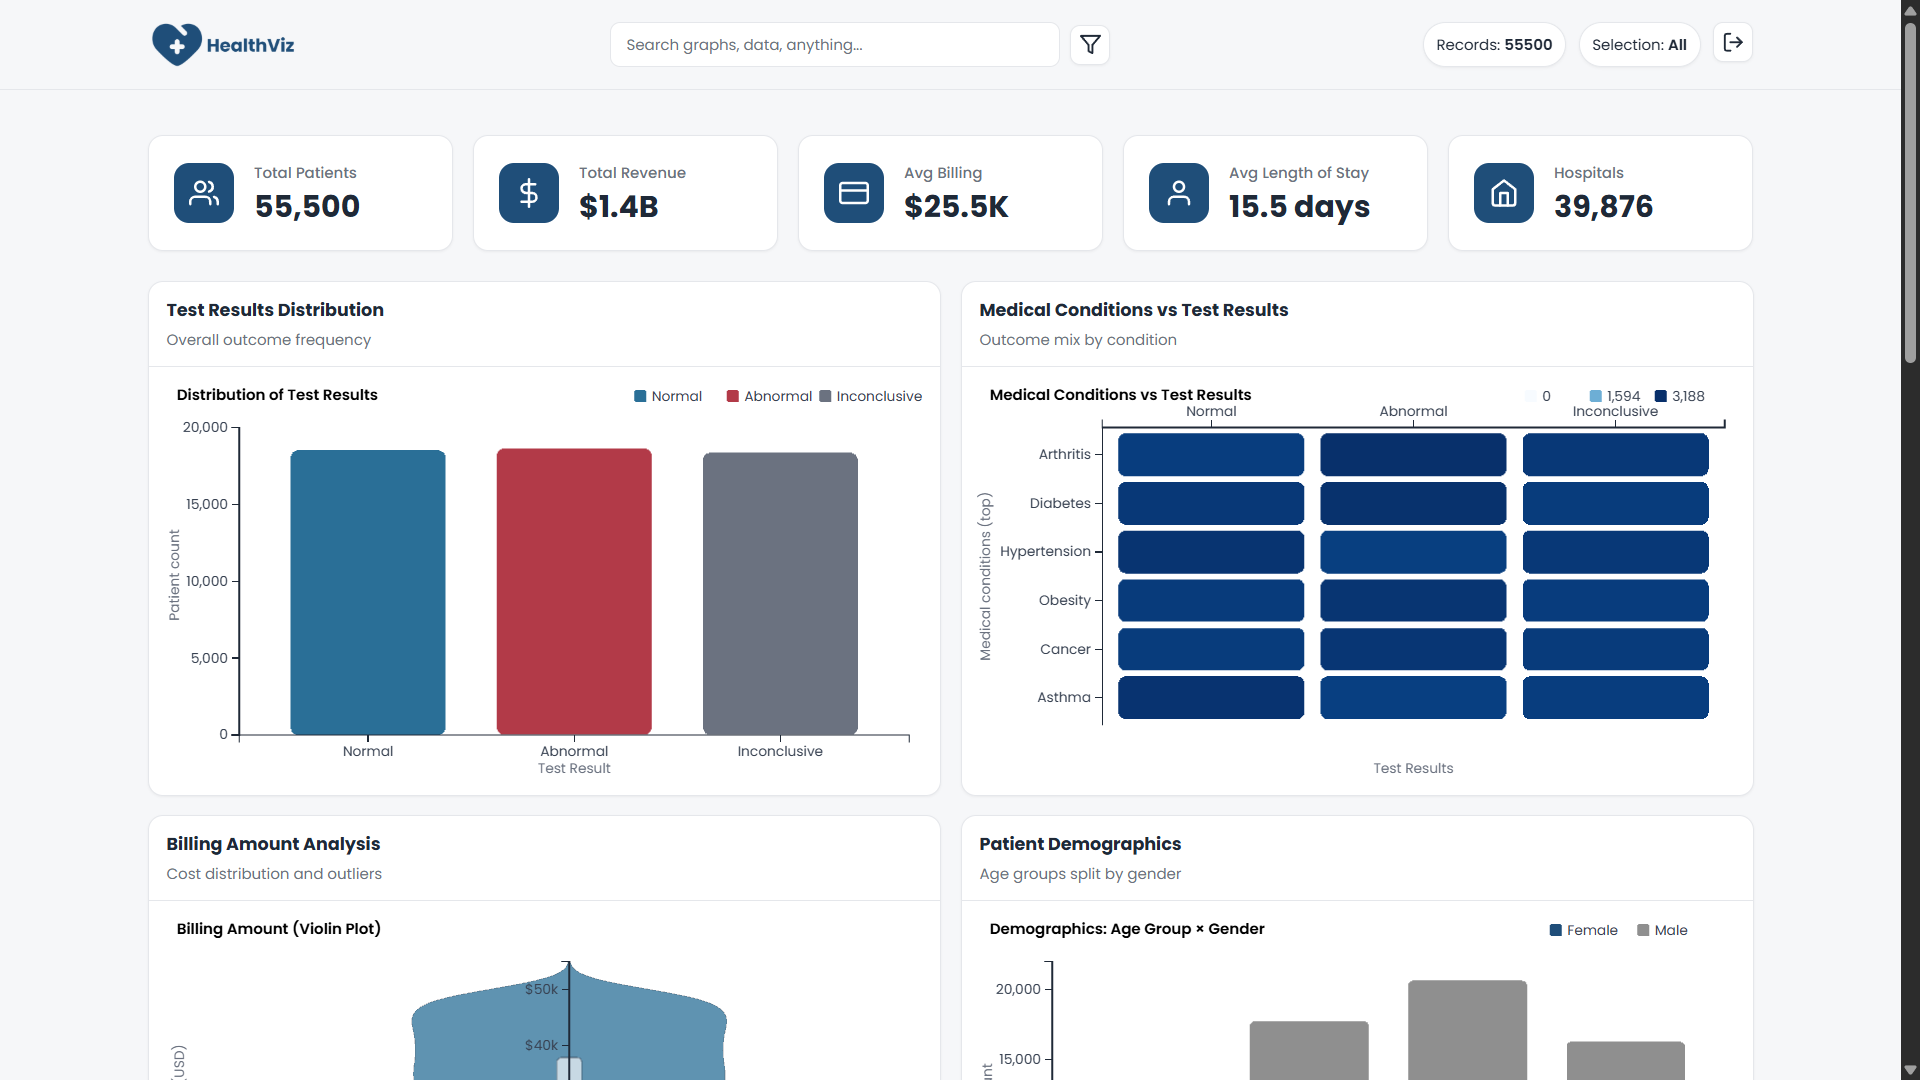
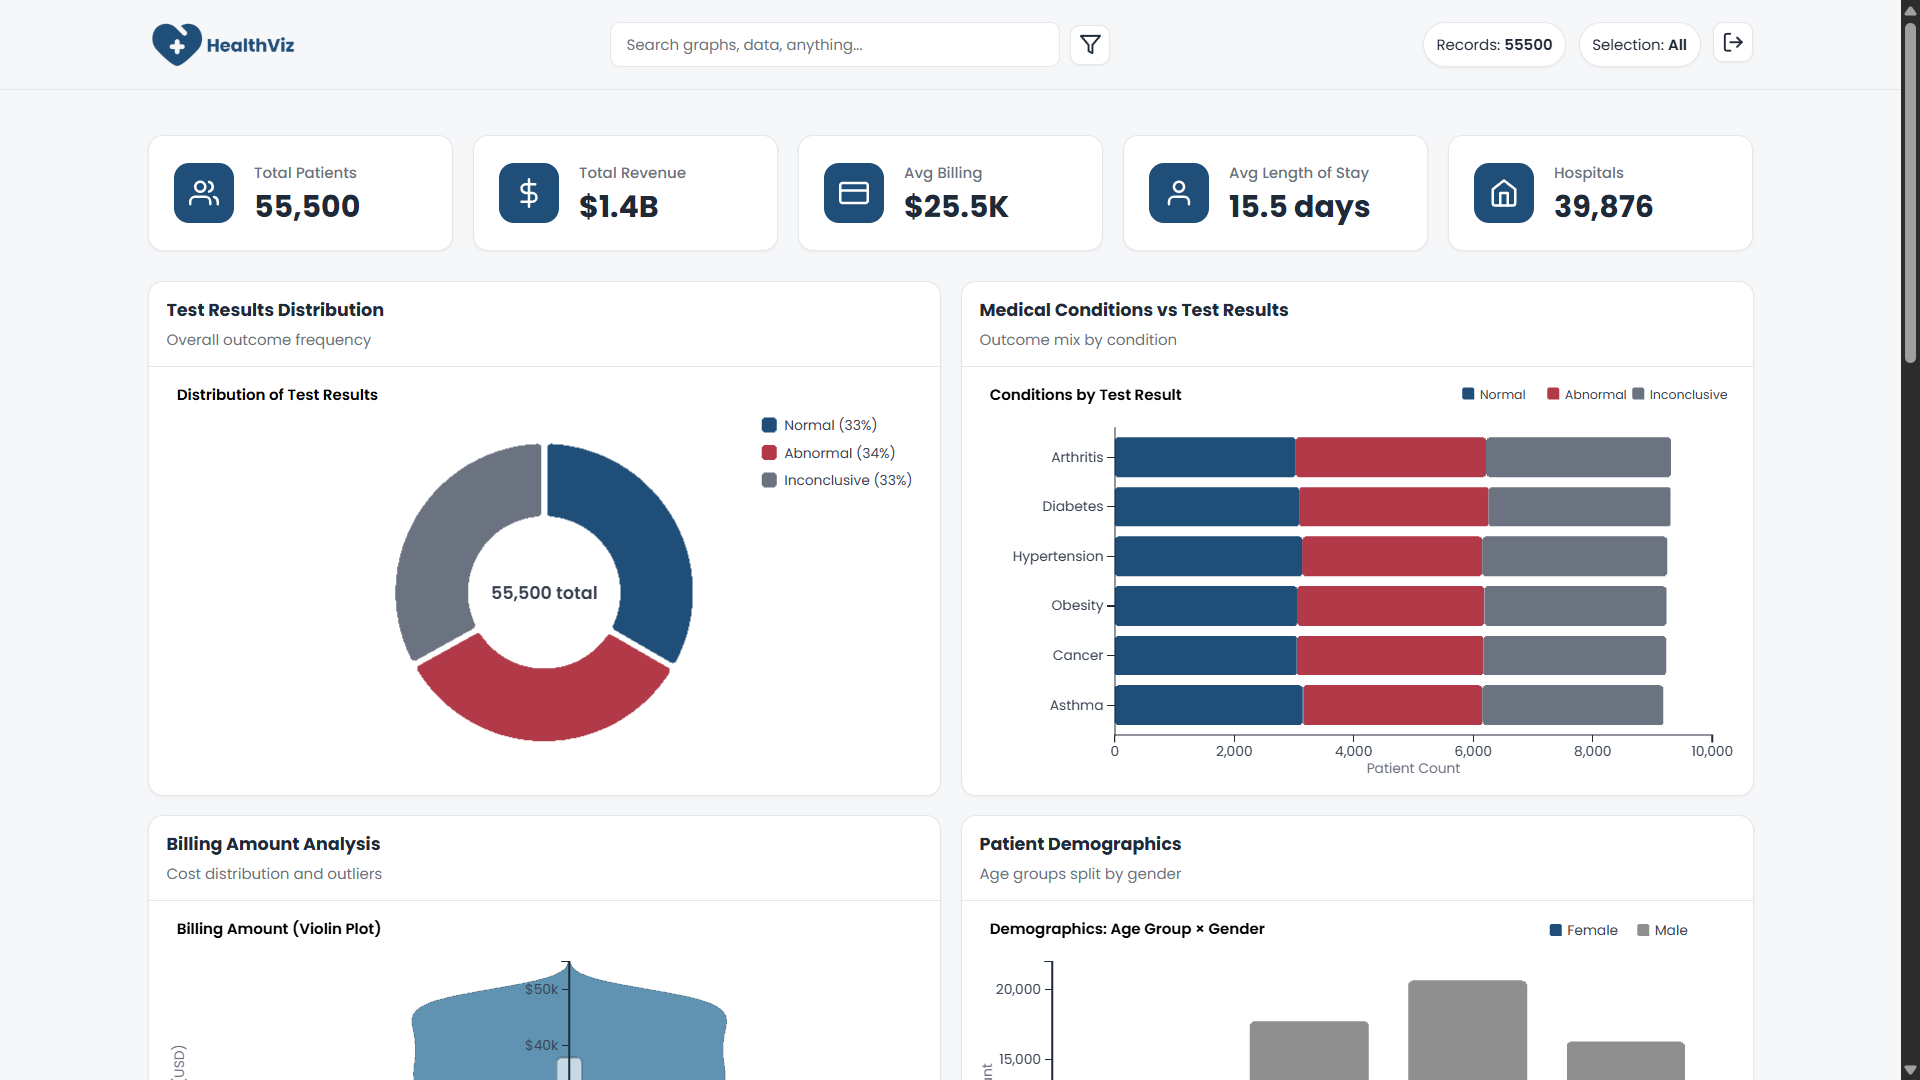
Updated README.md

diff --git a/README.md b/README.md
@@ -9,12 +9,13 @@ An interactive, client-side dashboard for exploring hospital and patient analyti
 - Optimized aggregations and DOM updates for responsiveness
 
 ### **Charts**
-- Average Cost per Insurance Provider
-- Total Revenue by Blood Type
-- Test Results Distribution
-- Medical Conditions vs Test Results (heatmap)
-- Patient Demographics (stacked bars)
-- Patient Flow
+- **Donut Chart**: Test Results Distribution (Normal/Abnormal/Inconclusive)
+- **Donut Chart**: Total Revenue by Blood Type
+- **Line Chart**: Average Cost per Insurance Provider (with area fill)
+- **Stacked Bar Chart**: Medical Conditions by Test Result
+- **Stacked Bar Chart**: Patient Demographics (Age × Gender)
+- **Violin Plot**: Billing Amount Distribution
+- **Sankey Diagram**: Patient Flow (Admission → Condition → Result)
 
 ### **Interactive Map**
 - ArcGIS-based hospital map with hover details
